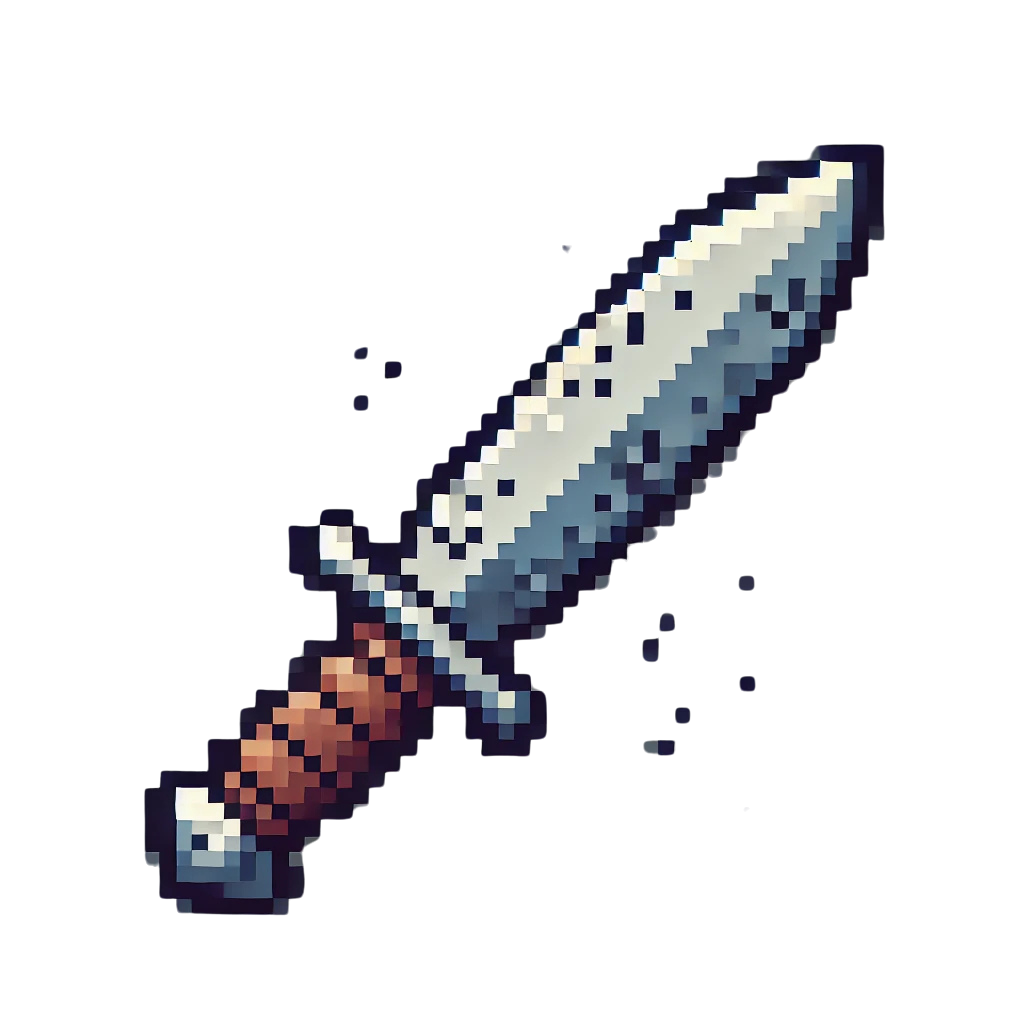
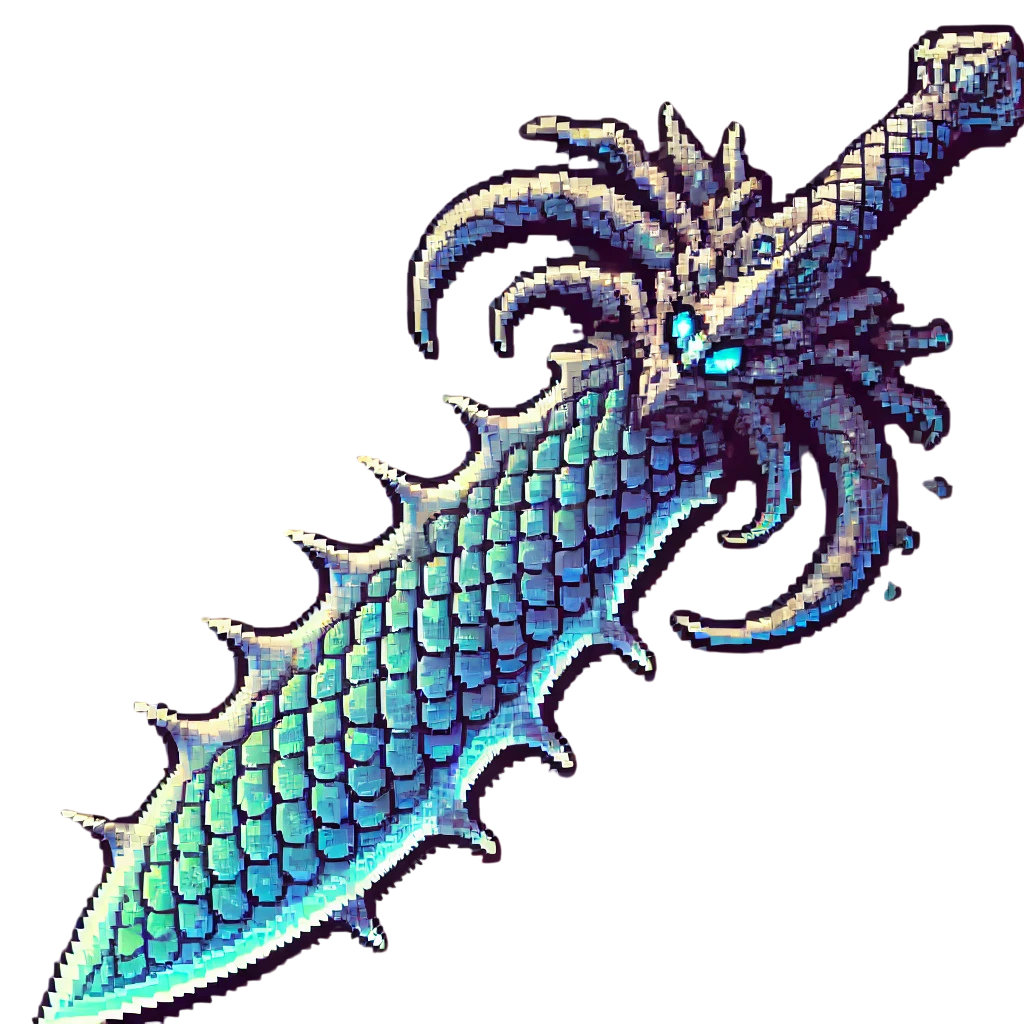
리소스 수정 끝

diff --git a/src/main/resources/검_이름.md b/src/main/resources/검_이름.md
@@ -1,0 +1,20 @@
+깨진 돌검
+커터칼
+그냥 단검
+녹슨 철검
+치킨 닭다리
+기름칠한 철검
+네더라이트 검
+피 묻힌 검
+마법부여 네더라이트 검
+비싼 금검
+용사의 비늘검
+포세이돈의 삼지창
+빛의 서약검
+일렉트릭 기타
+번개가 친 검
+불꽃 마검
+폭풍의.. 집행자
+어디서 본 거 같은 형광검
+데몬 배틀 액스...
+궁극의 대검
